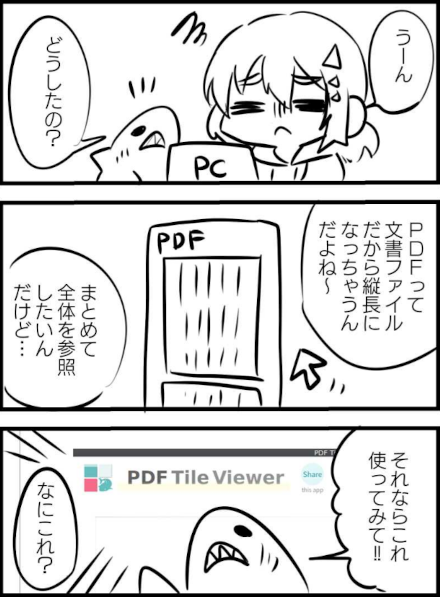
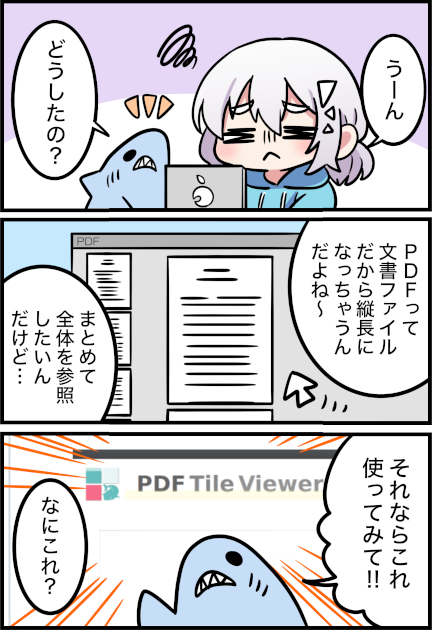
intro update

diff --git a/README.md b/README.md
@@ -15,6 +15,16 @@ The Latest executables on multiple platforms are in [Releases](https://github.co
 
 [Releases](https://github.com/nabbisen/pdf-tile-viewer/releases) ページ内に最新の実行ファイルがあります。インストールは不要です。実行ファイルを起動するだけで使えます。
 
+### Note: This app is not code-signed. | アプリにはコード署名がありません。
+
+Your OS (Windows / macOS) may show a security warning.
+If you trust this app, you can follow OS-specific steps to allow it.    
+Sorry for inconvenience, but we are volunteers and the certificates are expensive.
+
+お使いの OS (Windows / macOS) によっては、セキュリティ警告が表示される場合があります。
+このアプリを信頼できる場合は、OS 固有の手順に従って許可してください。    
+不便であり恐縮ですが、私たちはボランティアであり、証明書は高額なのです。
+
 ## Features
 
 ![manga-intro](docs/.docs-assets/manga-intro.png)
@@ -24,6 +34,8 @@ The Latest executables on multiple platforms are in [Releases](https://github.co
 **Woman:** PDFs are document files, so they always end up long and vertical... I just want to see the whole thing at a glance.  
 **Shark:** In that case—try this out!!  
 **Woman:** Oh, what’s this?
+
+_(manga by m. thanks)_
 
 - 🟨 Tile layout view on PDF pages | PDF ページのタイルレイアウト表示
 - ✊ Mouse drag move with Ctrl key pushed | Ctrl キーを押しながらマウスドラッグして移動
